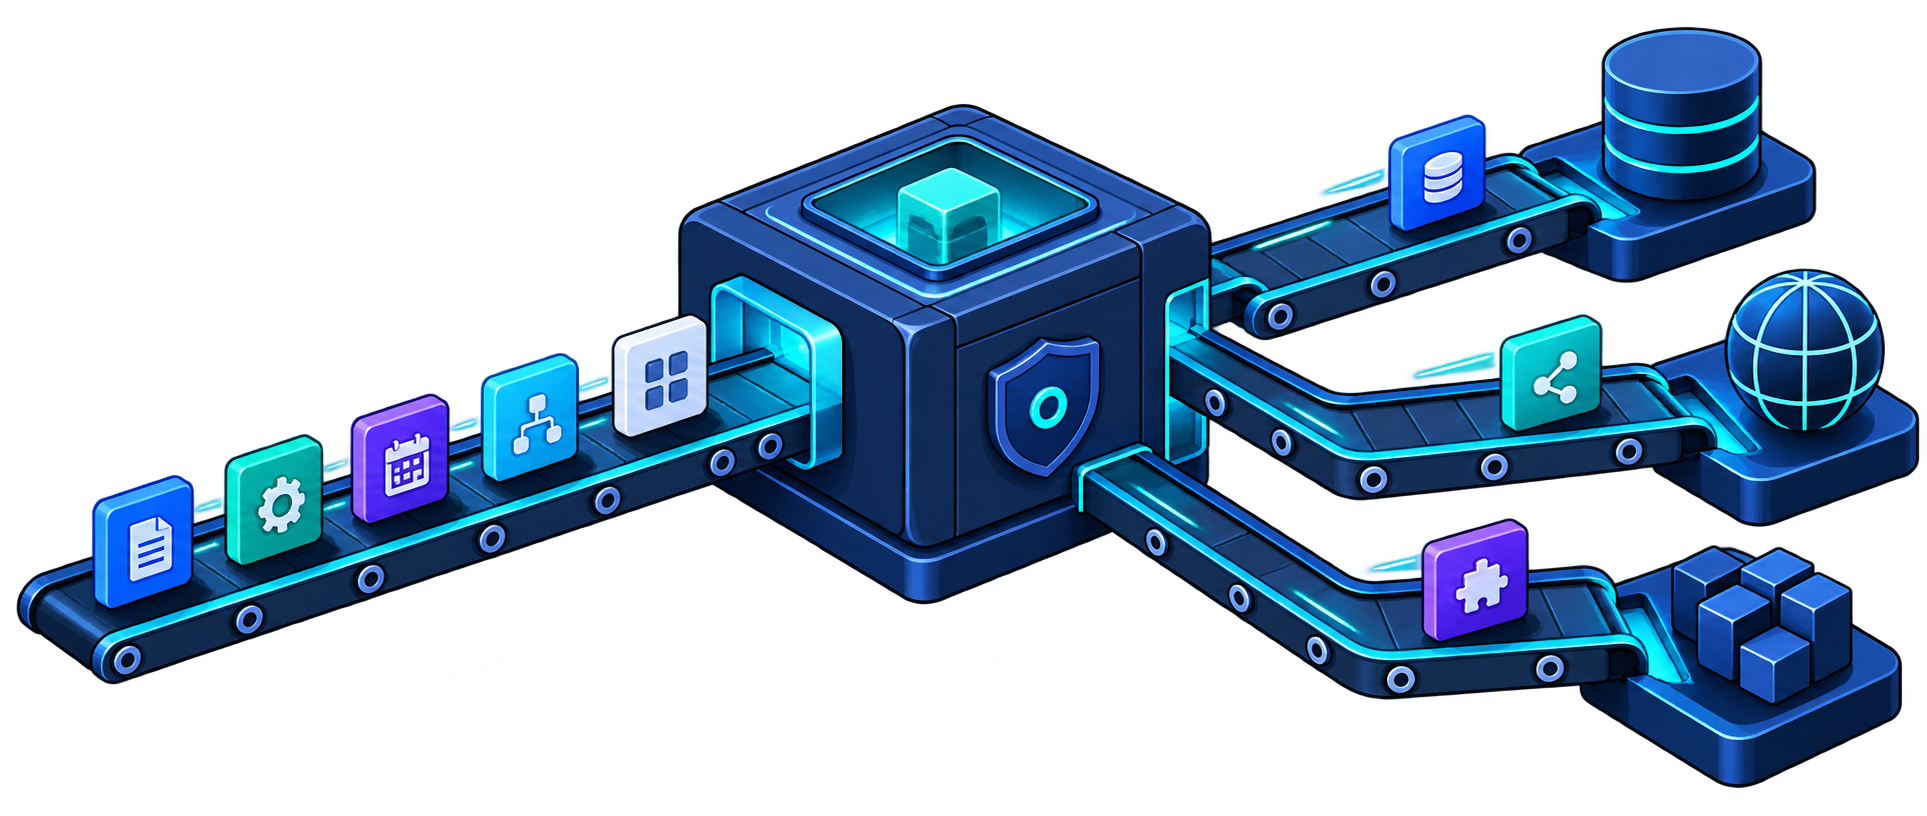
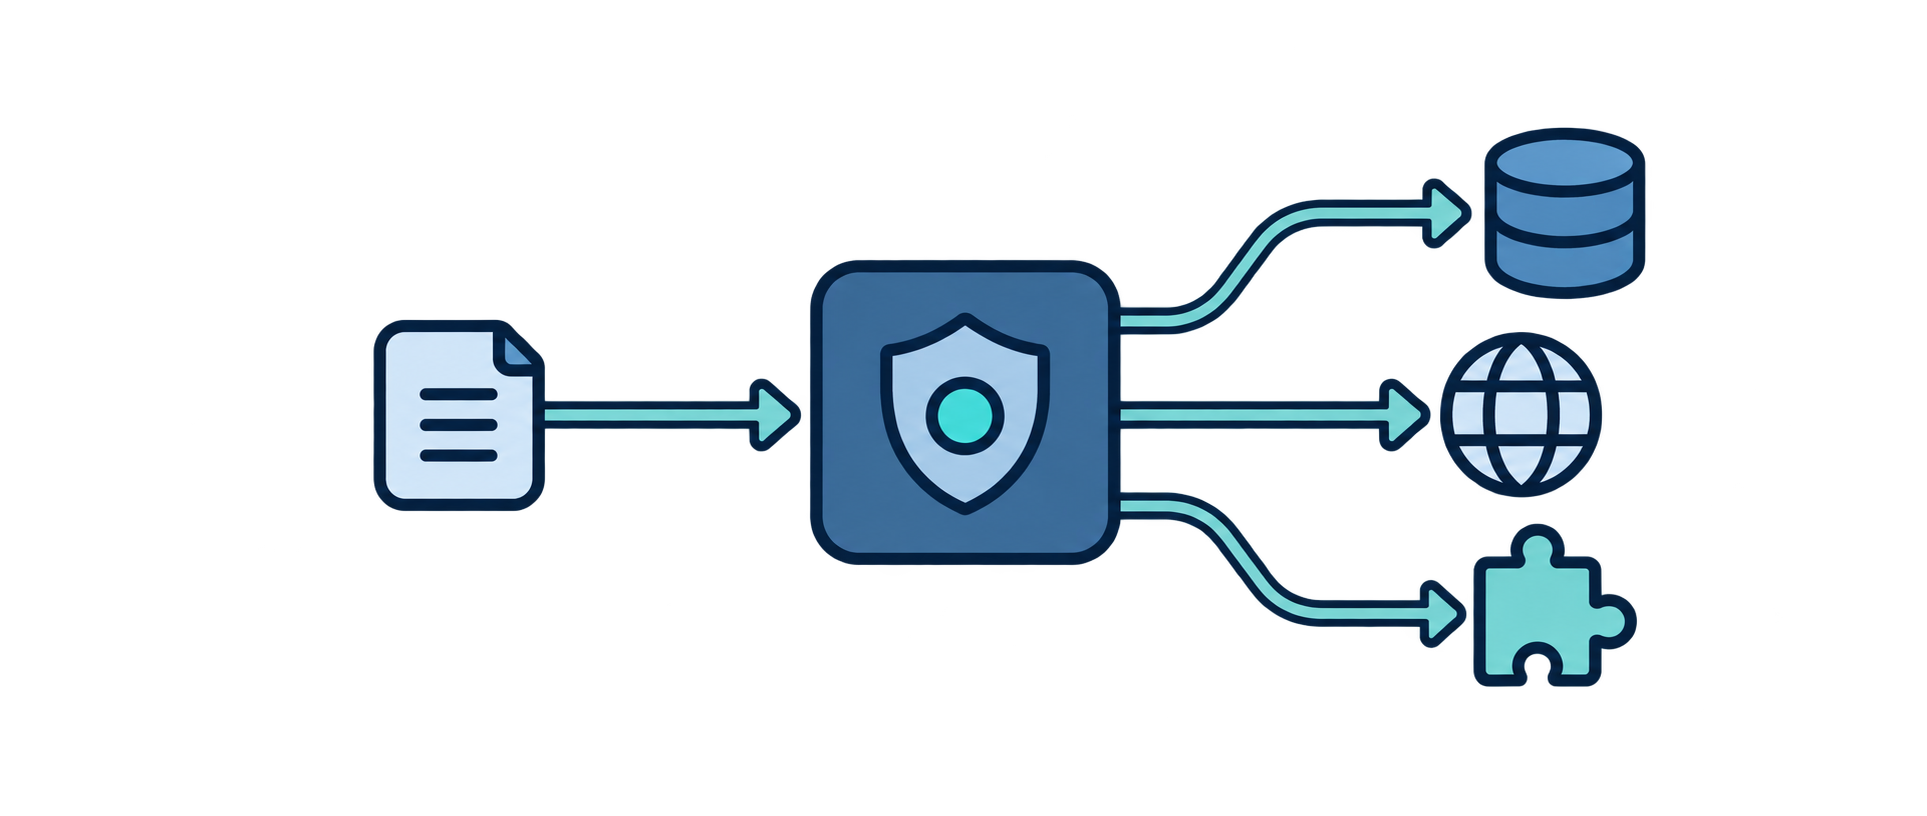
docs: reduce illustration prominence and lead with explanations

diff --git a/README.md b/README.md
@@ -2,9 +2,15 @@
 
 <img src="frontend/packages/ui/src/brand/workerdock-mark.png" alt="WorkerDock logo" width="64">
 
-WorkerDock is a self-hosted platform for defining, scheduling, executing, and monitoring jobs through trusted, versioned templates. SQL Server and HTTP templates are included; teams can add their own .NET templates for other workflows. Each tenant has a web application, a SQL Server database, and one Windows runtime service. The optional Control Center provides a directory and health view for independently deployed tenants.
+WorkerDock is a self-hosted platform for defining, scheduling, executing, and monitoring jobs through trusted, versioned templates. It includes SQL Server and HTTP templates, and teams can install their own .NET templates for other workflows.
 
-![WorkerDock routes jobs through isolated execution to different destinations](docs/media/workerdock-overview.png)
+Each tenant has a web application, a SQL Server database, and one Windows runtime service. The optional Control Center provides a directory and health view for independently deployed tenants.
+
+## How jobs work
+
+An operator selects an installed template, configures a job, and activates it after review. The tenant runtime picks up manual or scheduled work, runs the selected template in an isolated child process, and records the result in the tenant database. The template defines what the job does.
+
+<img src="docs/media/workerdock-overview.png" alt="A job enters an isolated execution process, which can use SQL Server, HTTP, or a custom template" width="520">
 
 ## Capabilities
 
@@ -18,11 +24,15 @@ WorkerDock is a self-hosted platform for defining, scheduling, executing, and mo
 
 ## Templates
 
-![An extensible catalog of SQL Server, HTTP, and custom template modules](docs/media/workerdock-templates.png)
+Every job selects a specific template version. WorkerDock includes [SQL Server](docs/reference/sql-template.md) and [HTTP](docs/reference/http-template.md) templates. Developers can build a [custom template](docs/how-to/add-custom-template.md) for another approved workflow, then register and deploy it with the Web, Worker, and Executor processes.
 
-Every job selects a specific template version. WorkerDock includes [SQL Server](docs/reference/sql-template.md) and [HTTP](docs/reference/http-template.md) templates. Developers can build a [custom template](docs/how-to/add-custom-template.md) for another approved workflow, then register and deploy it with the Web, Worker, and Executor processes. Operators can select installed templates in the dashboard; the dashboard does not accept executable uploads. The [sample template](examples/WorkerDock.SampleTemplate/SampleTemplate.cs) and [authoring reference](docs/reference/template-authoring.md) show the contract and deployment requirements.
+Operators can select installed templates in the dashboard; the dashboard does not accept executable uploads. The [sample template](examples/WorkerDock.SampleTemplate/SampleTemplate.cs) and [authoring reference](docs/reference/template-authoring.md) show the contract and deployment requirements.
+
+<img src="docs/media/workerdock-templates.png" alt="A catalog with built-in SQL Server and HTTP templates, a custom template, and room for additional templates" width="420">
 
 ## Architecture
+
+The runtime starts bounded child processes to run trusted templates. It reads queued work directly from the tenant database; no external message broker is required. See [architecture](docs/reference/architecture.md) and [execution guarantees](docs/reference/execution-guarantees.md) for details.
 
 ```mermaid
 flowchart LR
@@ -36,8 +46,6 @@ flowchart LR
     Template -. "developer installed" .-> Custom["Custom .NET template"]
     Center["Optional Control Center"] -. "links and health" .-> Web
 ```
-
-The runtime starts bounded child processes to run trusted templates. It reads queued work directly from the tenant database; no external message broker is required. See [architecture](docs/reference/architecture.md) and [execution guarantees](docs/reference/execution-guarantees.md) for details.
 
 ## Get started
 
